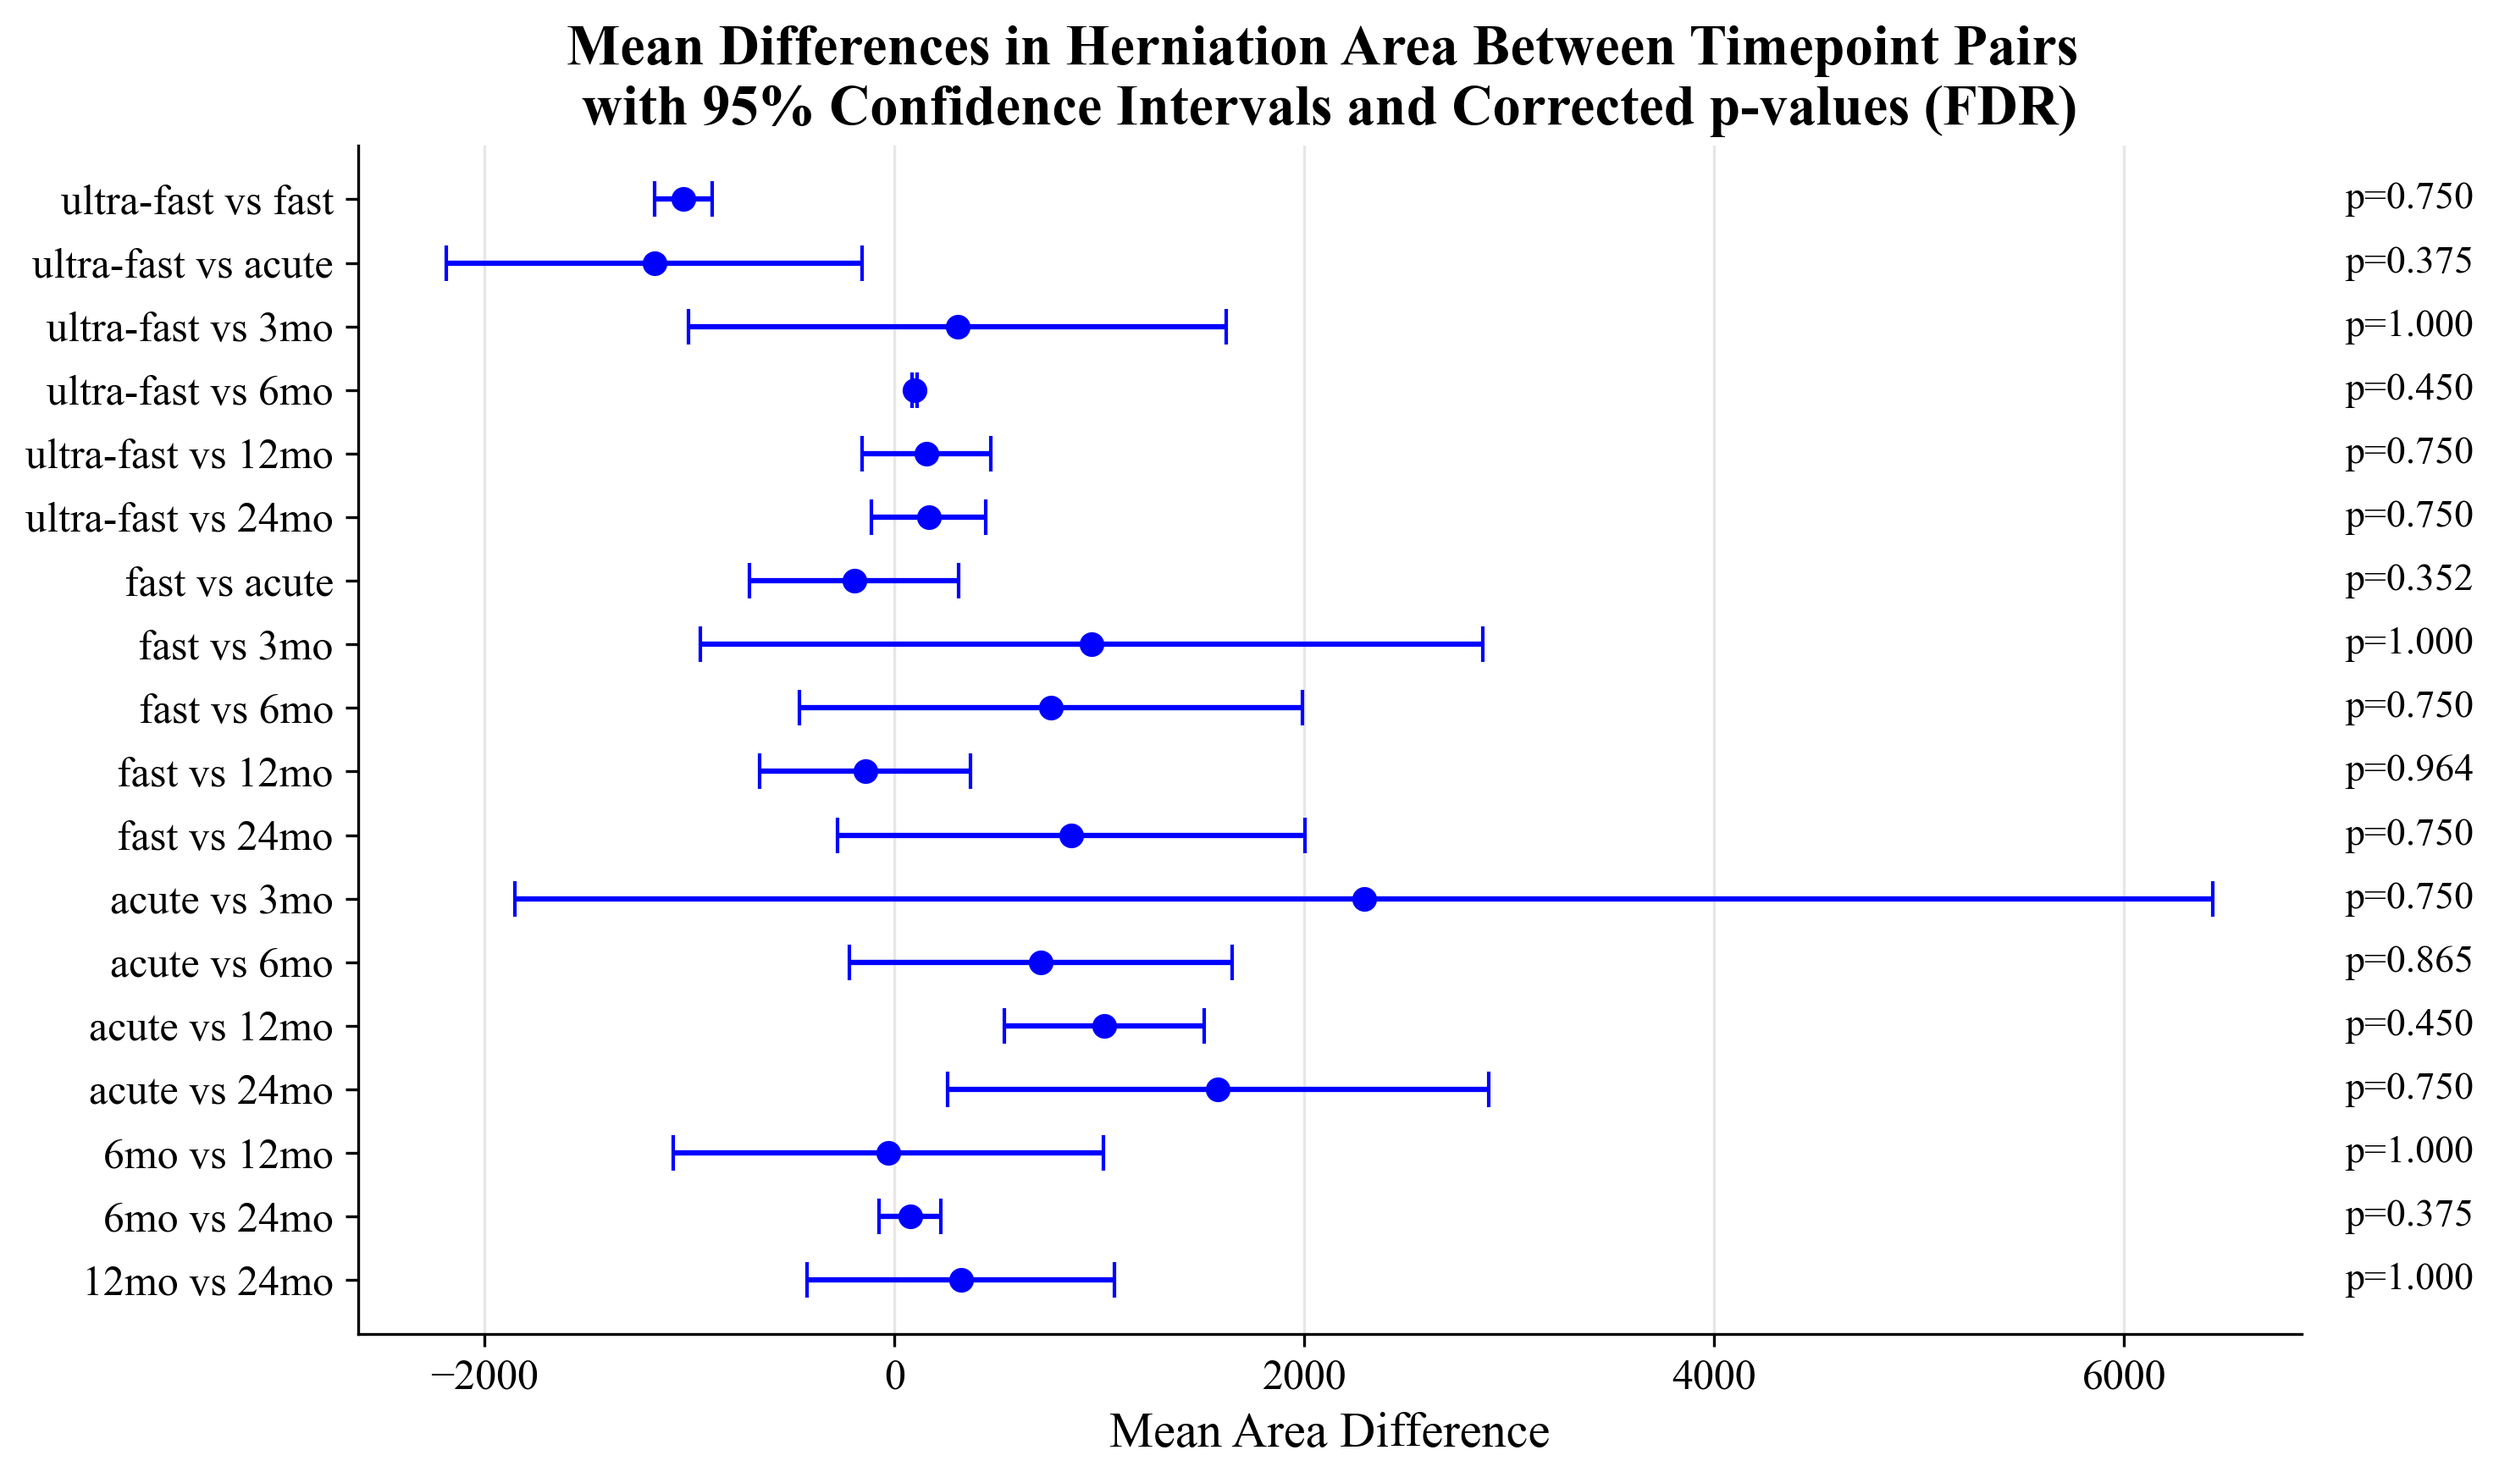
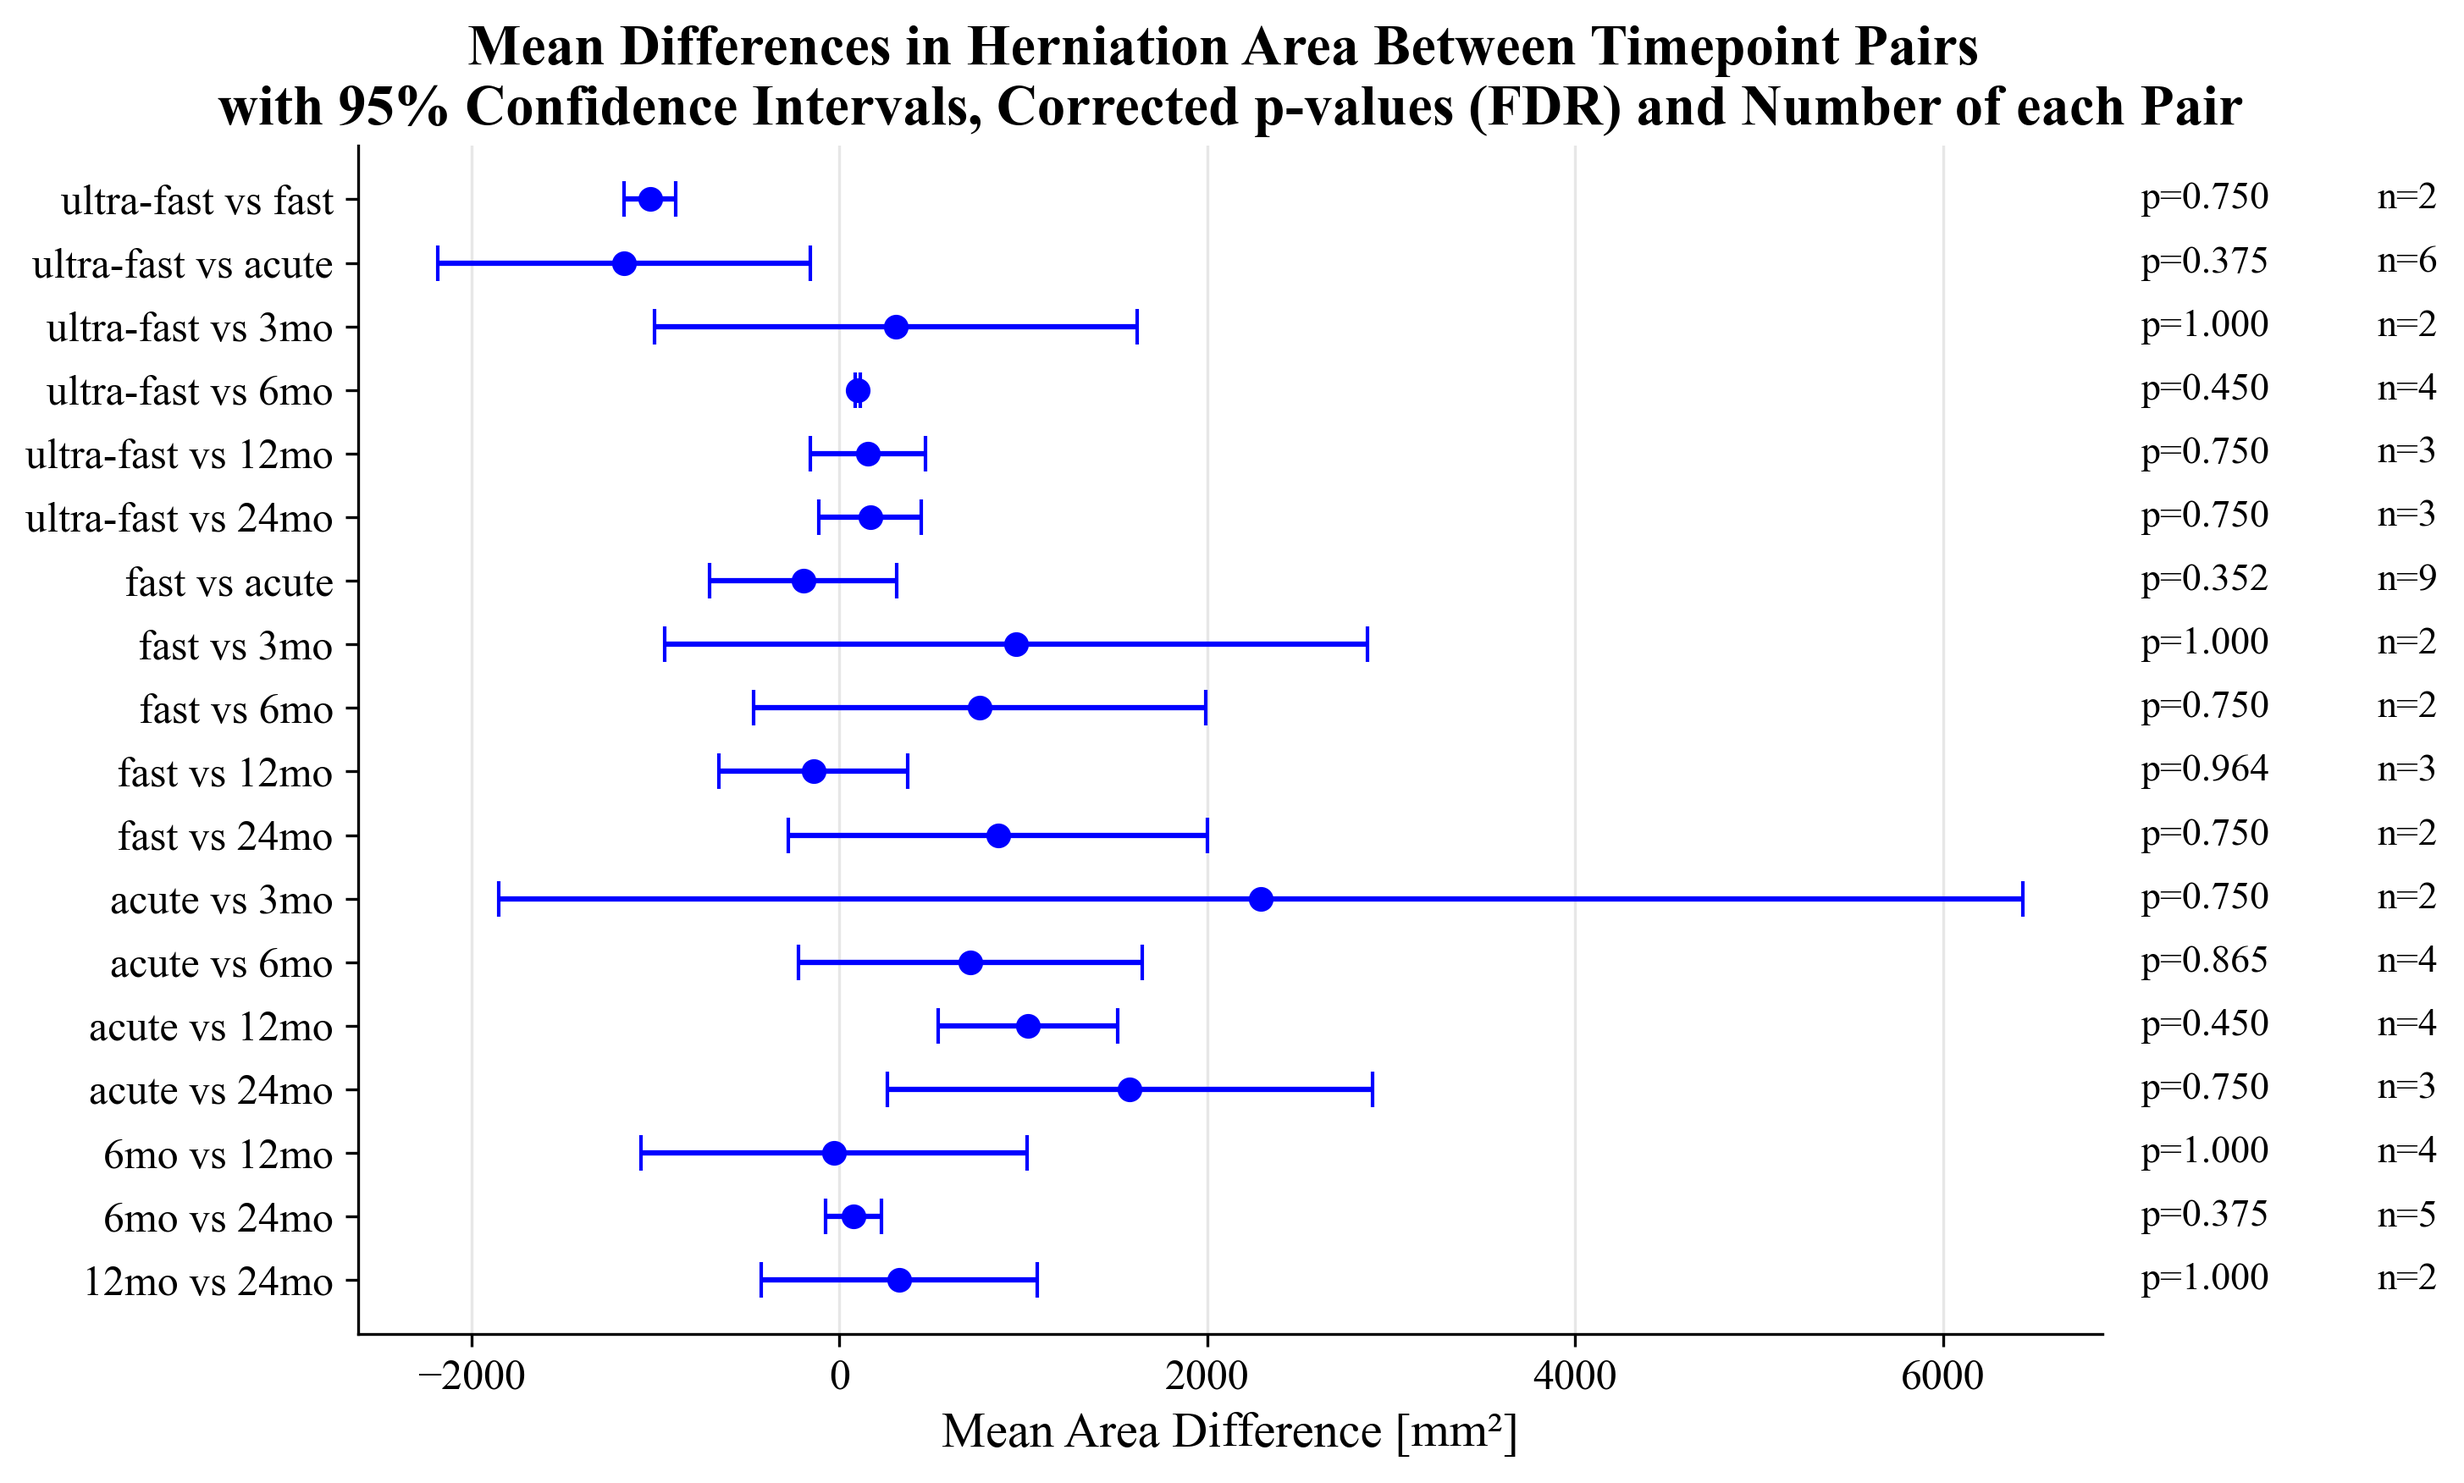
add number of each pair to graph

diff --git a/Image_Processing_Scripts/stats_main.py b/Image_Processing_Scripts/stats_main.py
@@ -636,8 +636,8 @@ if pair_data:
     # Labels
     plt.yticks(range(n_comparisons), list(reversed(summary_df['comparison'])))
     #plt.axvline(x=0, color='gray', linestyle='-', linewidth=1.5, alpha=0.7)
-    plt.title('Mean Differences in Herniation Area Between Timepoint Pairs \nwith 95% Confidence Intervals and Corrected p-values (FDR)')
-    plt.xlabel('Mean Area Difference')
+    plt.title('Mean Differences in Herniation Area Between Timepoint Pairs \nwith 95% Confidence Intervals, Corrected p-values (FDR) and Number of each Pair')
+    plt.xlabel('Mean Area Difference [mm²]')
     
     
     # Add significance annotation (with reversed positions)
@@ -648,6 +648,19 @@ if pair_data:
             #i,
             n_comparisons - 1 - i,  # Reverse the y position
             f"p={summary_df.iloc[i]['p_corrected']:.3f}{' *' if summary_df.iloc[i]['significant'] else ''}",
+            va='center',
+            fontsize=11,
+            ha='left'
+        )
+    
+    # Add number of pair annotation (with reversed positions)
+    max_x2=max([x['ci_upper'] for _, x in summary_df.iterrows()]) * 1.3
+    for i in range(len(summary_df)):
+        plt.text(
+            max_x2,  # Align all p-values to same x position
+            #i,
+            n_comparisons - 1 - i,  # Reverse the y position
+            f"n={summary_df.iloc[i]['n_pairs']}{' *' if summary_df.iloc[i]['significant'] else ''}",
             va='center',
             fontsize=11,
             ha='left'
